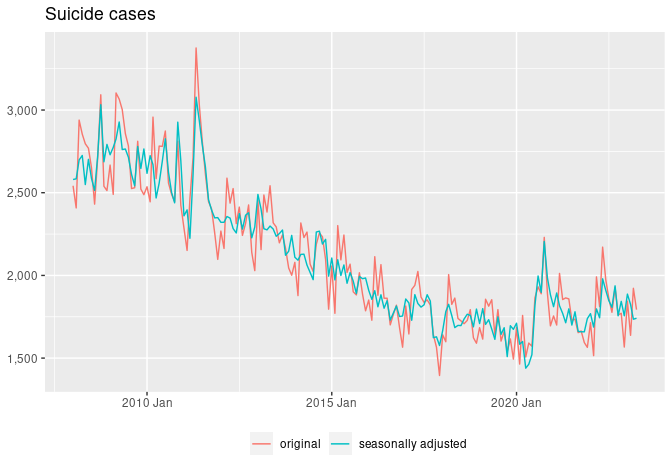
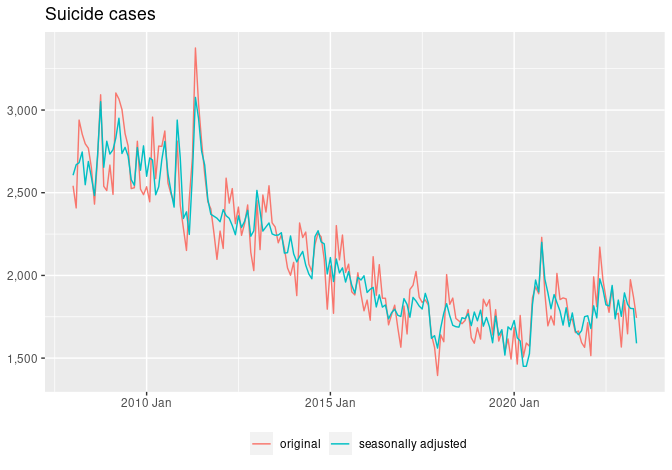
update May 2023 cases

diff --git a/README.md b/README.md
@@ -3,18 +3,14 @@ Japan suicide cases reported by National Police Agency
 Mitsuo Shiota
 2020-12-19
 
-- <a href="#motivation" id="toc-motivation">Motivation</a>
-- <a href="#get-data-from-national-police-agency"
-  id="toc-get-data-from-national-police-agency">Get data from National
-  Police Agency</a>
-- <a href="#replicate-the-chart" id="toc-replicate-the-chart">Replicate
-  the chart</a>
-- <a
-  href="#suicide-cases-are-bouncing-back-but-not-as-fast-as-the-program-suggests"
-  id="toc-suicide-cases-are-bouncing-back-but-not-as-fast-as-the-program-suggests">Suicide
-  cases are bouncing back, but not as fast as the program suggests</a>
+- [Motivation](#motivation)
+- [Get data from National Police
+  Agency](#get-data-from-national-police-agency)
+- [Replicate the chart](#replicate-the-chart)
+- [Suicide cases are bouncing back, but not as fast as the program
+  suggests](#suicide-cases-are-bouncing-back-but-not-as-fast-as-the-program-suggests)
 
-Updated: 2023-05-30
+Updated: 2023-06-16
 
 ## Motivation
 
